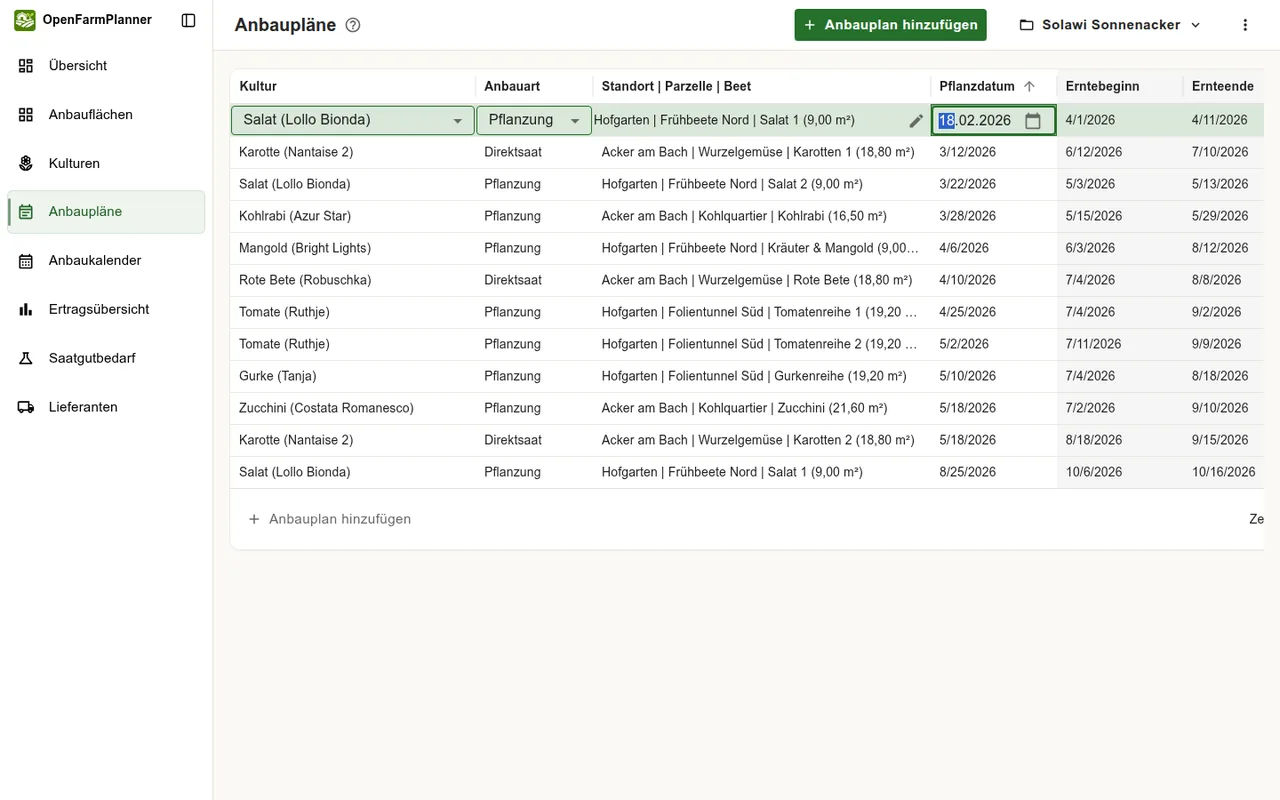
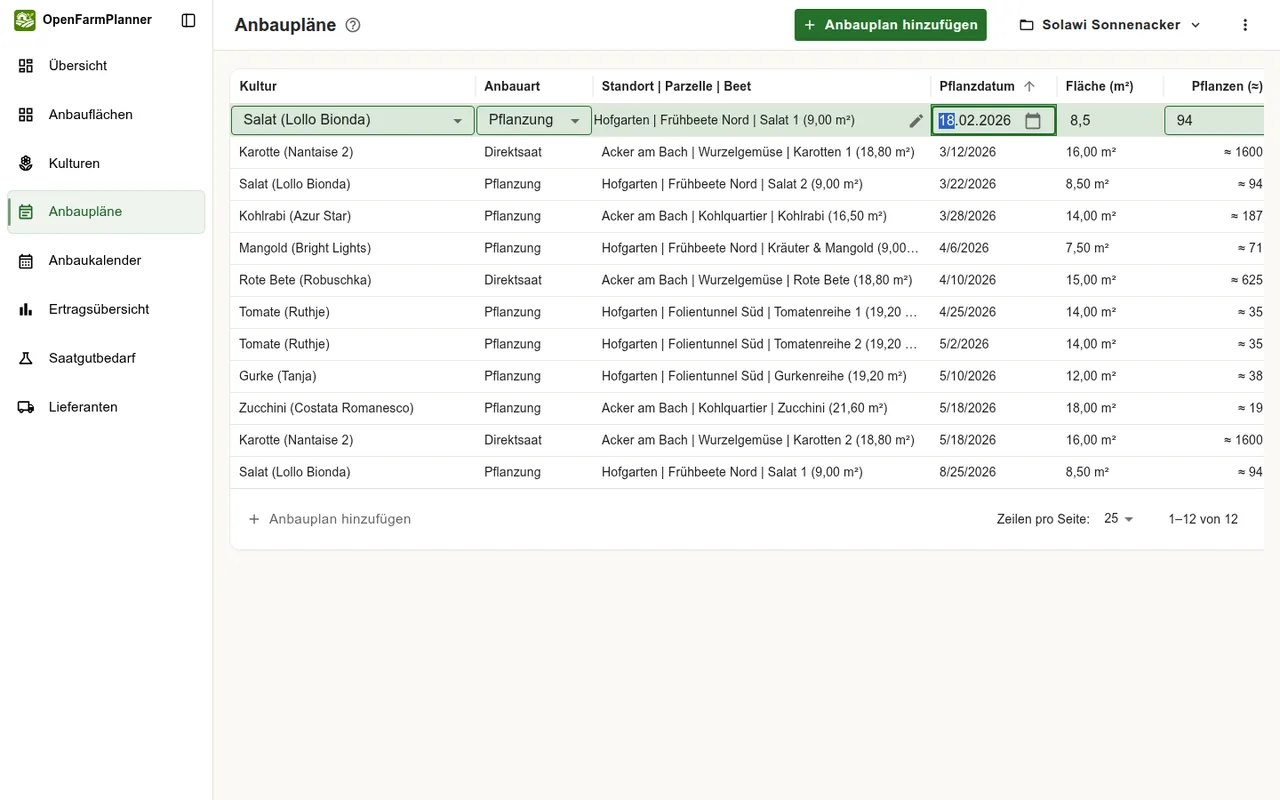
feat: reorder product-tour tabs, trim planting-plans screenshot, tighten top padding
- Reorder the product-tour tabs to match the app's own sidebar order
  (Flächen, Kulturen, Anbaupläne, Kalender, Erträge, Saatgut).
- Hide the computed Erntebeginn/Ernteende columns when generating the
  Anbaupläne screenshot, freeing up room for the Fläche/Pflanzen columns
  a user actually edits.
- Reduce the top padding above the logo/title so it sits closer to the
  page edge instead of leaving a large empty band.

diff --git a/frontend/src/pages/public/HomePage.tsx b/frontend/src/pages/public/HomePage.tsx
@@ -21,12 +21,12 @@ const PRODUCT_TOUR_ITEMS = [
     image: '/landing/screenshots/demo-areas.webp',
   },
   {
-    key: 'plantingPlans',
-    image: '/landing/screenshots/demo-planting-plans.webp',
-  },
-  {
     key: 'cultures',
     image: '/landing/screenshots/demo-cultures.webp',
+  },
+  {
+    key: 'plantingPlans',
+    image: '/landing/screenshots/demo-planting-plans.webp',
   },
   {
     key: 'calendar',
@@ -80,10 +80,11 @@ export default function HomePage() {
     setActiveTourKey(value);
   };
 
+  
   return (
     <Box sx={{ minHeight: '100vh', display: 'flex', flexDirection: 'column', bgcolor: 'background.default' }}>
       <Box component="main" sx={{ flex: 1 }}>
-        <Container maxWidth="lg" sx={{ width: '100%', pt: { xs: 4, md: 5.5 }, pb: { xs: 2.5, md: 3 } }}>
+        <Container maxWidth="lg" sx={{ width: '100%', pt: { xs: 2.5, md: 3.5 }, pb: { xs: 2.5, md: 3 } }}>
           <Stack direction="row" spacing={1.4} alignItems="center" justifyContent="center">
             <Box
               component="img"

diff --git a/frontend/e2e/landing-screenshots.spec.ts b/frontend/e2e/landing-screenshots.spec.ts
@@ -46,6 +46,9 @@ const screenshots = [
     path: '/app/anbauplaene',
     ready: /Anbaupläne|Anbauplan/i,
     filename: 'demo-planting-plans.webp',
+    // Hide the computed harvest-date columns so the screenshot has room to
+    // breathe and focuses on the columns a user actually edits.
+    columnVisibility: { harvest_date: false, harvest_end_date: false },
   },
 ] as const;
 
@@ -113,6 +116,11 @@ test.describe('landing page product screenshots', () => {
       await page.evaluate((fieldsViewMode) => {
         window.localStorage.setItem('fieldsBedsViewMode', fieldsViewMode ?? 'table');
       }, 'fieldsViewMode' in item ? item.fieldsViewMode : undefined);
+      if ('columnVisibility' in item) {
+        await page.evaluate((columnVisibility) => {
+          window.localStorage.setItem('tableColumns.plantingPlans', JSON.stringify(columnVisibility));
+        }, item.columnVisibility);
+      }
       await page.goto(item.path);
       await disableTransientUi(page);
       await waitForPageStable(page, item.ready);

diff --git a/frontend/src/__tests__/App.test.tsx b/frontend/src/__tests__/App.test.tsx
@@ -98,8 +98,8 @@ describe('App', () => {
     expect(await screen.findByRole('tab', { name: 'Flächen' })).toHaveAttribute('aria-selected', 'true');
     expect(screen.getAllByRole('tab').map((tab) => tab.textContent)).toEqual([
       'Flächen',
-      'Anbaupläne',
       'Kulturen',
+      'Anbaupläne',
       'Kalender',
       'Erträge',
       'Saatgut',